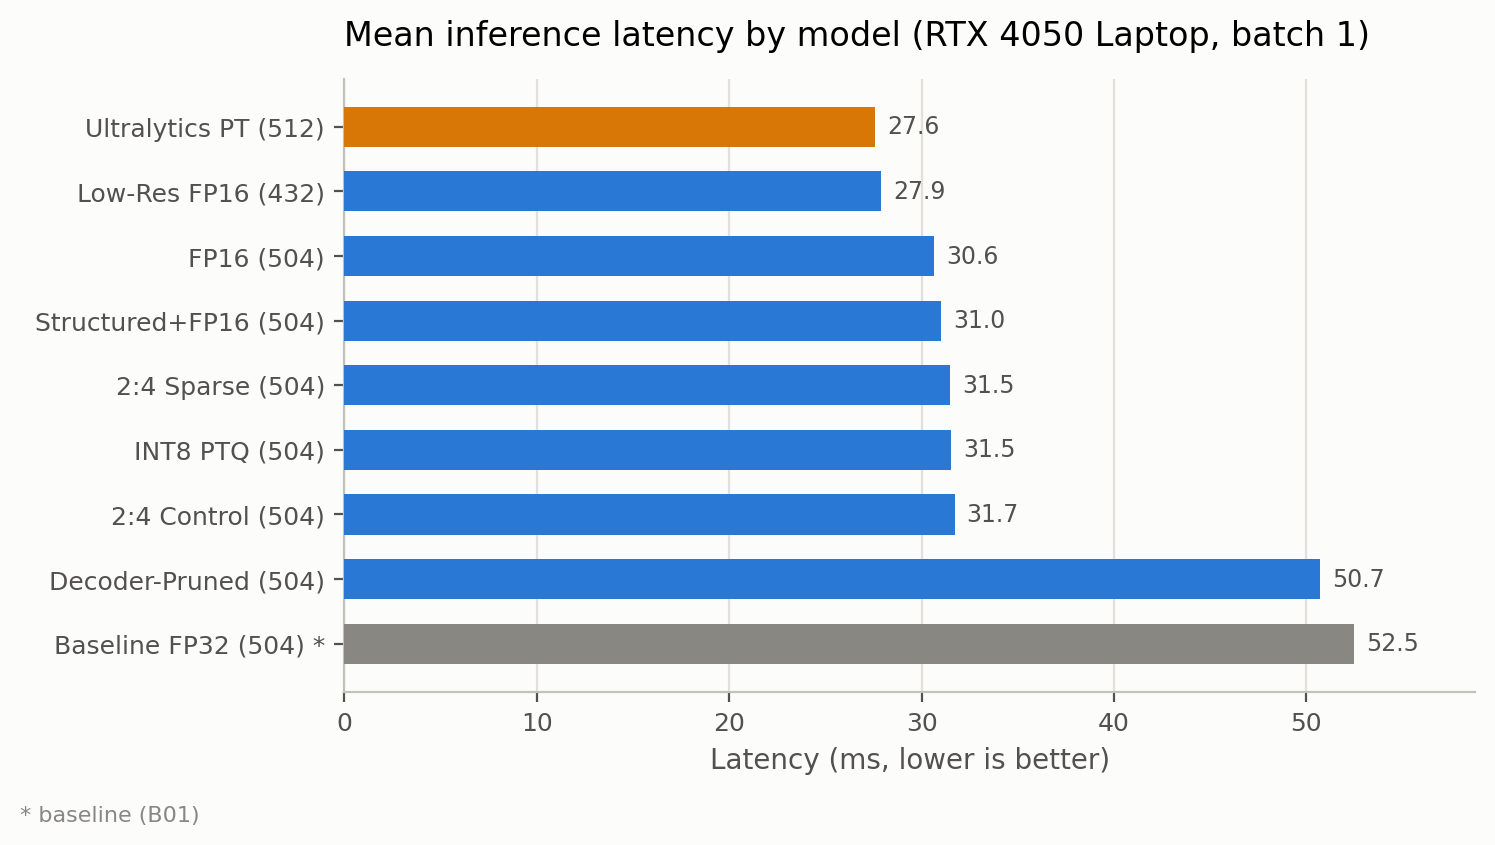
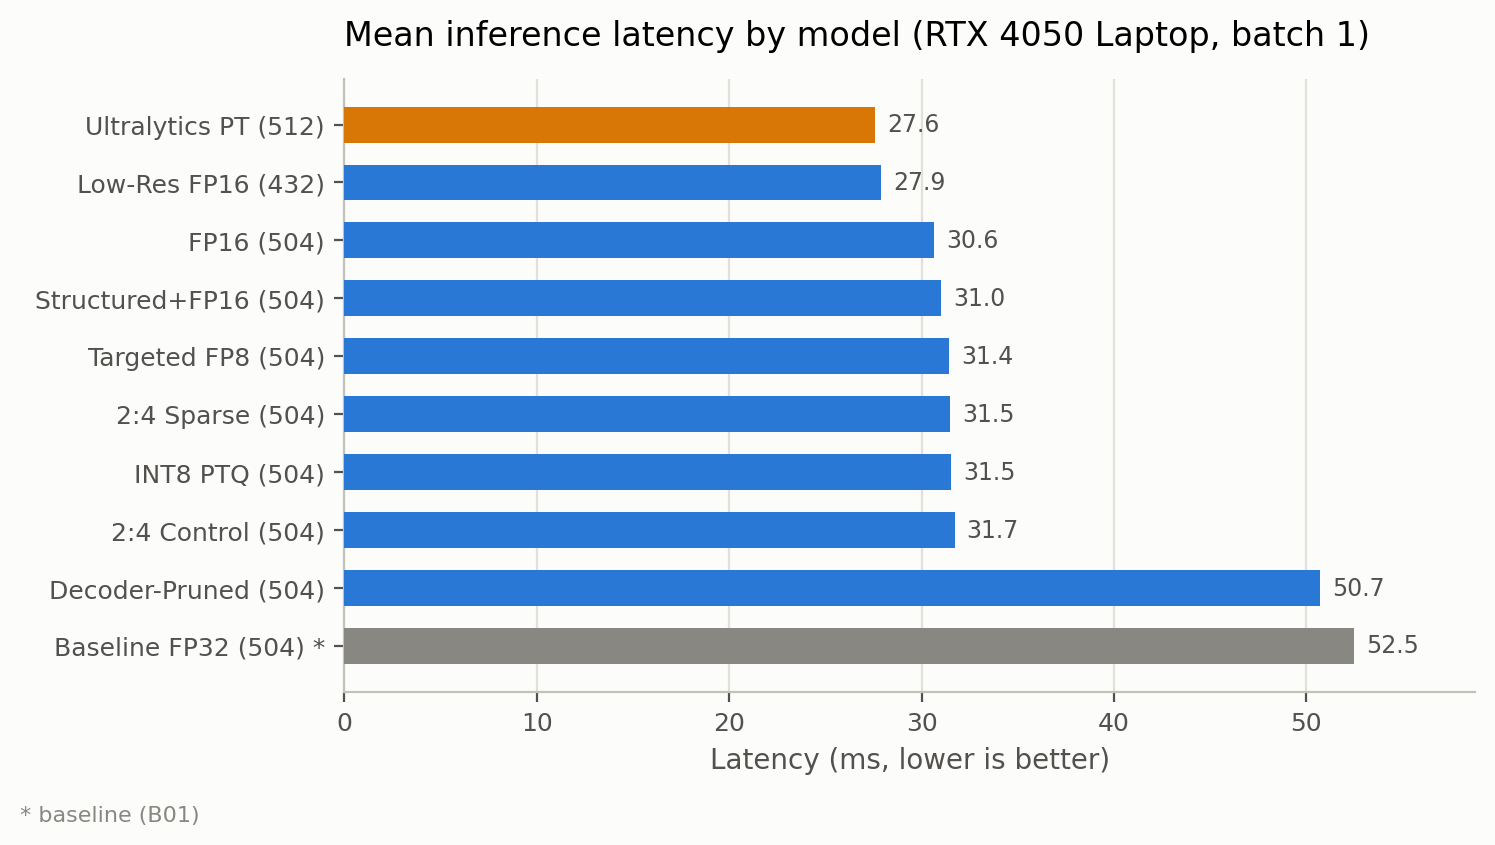
Add targeted FP8 evaluation results

diff --git a/scripts/evaluation/benchmark.py b/scripts/evaluation/benchmark.py
@@ -402,20 +402,28 @@ def base_row(model_path: Path, model_size_mb: float, baseline_size_mb: float, co
 def write_results_csv(output_path: Path, rows: Sequence[dict[str, Any]]) -> None:
     output_path.parent.mkdir(parents=True, exist_ok=True)
     write_header = not output_path.exists() or output_path.stat().st_size == 0
+    output_fields = CSV_FIELDS
     if not write_header:
         with output_path.open("r", newline="", encoding="utf-8") as handle:
             existing_header = next(csv.reader(handle), [])
-        if existing_header != CSV_FIELDS:
+        if existing_header[: len(CSV_FIELDS)] != CSV_FIELDS:
             raise EvaluationError(
                 f"CSV schema differs from the current benchmark fields: {output_path}. "
                 "Choose a new --output path or archive/remove the old CSV."
             )
+        # Accuracy enrichers append fields such as Mask AP after benchmarking.
+        # Preserve those columns and leave them empty for the newly appended row;
+        # the corresponding evaluator fills them in afterward.
+        output_fields = existing_header
     with output_path.open("a", newline="", encoding="utf-8") as handle:
-        writer = csv.DictWriter(handle, fieldnames=CSV_FIELDS, extrasaction="ignore")
+        writer = csv.DictWriter(handle, fieldnames=output_fields, extrasaction="ignore")
         if write_header:
             writer.writeheader()
         for row in rows:
-            cleaned = {field: format_csv_value(row.get(field, "")) for field in CSV_FIELDS}
+            cleaned = {
+                field: format_csv_value(row.get(field, ""))
+                for field in output_fields
+            }
             writer.writerow(cleaned)
 
 

diff --git a/scripts/reporting/paper_results.py b/scripts/reporting/paper_results.py
@@ -40,6 +40,7 @@ MODELS = {
     "M02": ("2:4 Sparse", "NVIDIA 2:4 structured sparsity"),
     "S01": ("Decoder-Pruned", "Structured decoder layer pruning (FP32)"),
     "R01": ("Low-Res FP16", "Reduced input resolution + FP16"),
+    "Q07": ("Targeted FP8", "Task-sensitive mixed FP8/FP16 quantization"),
     "parking_front": ("Ultralytics PT", "Legacy Ultralytics PyTorch model"),
 }
 
@@ -512,6 +513,7 @@ def main() -> None:
             "B02": (42, -8),
             "M01": (0, -16),
             "R01": (-6, 10),
+            "Q07": (0, -17),
             "parking_front": (0, -17),
         },
         reference_ids=REFERENCE_MODELS,
@@ -525,6 +527,7 @@ def main() -> None:
             "B02": (44, -16),
             "M01": (0, -16),
             "R01": (-14, -18),
+            "Q07": (-20, 12),
             "parking_front": (30, -4),
         },
         reference_ids=REFERENCE_MODELS,
@@ -537,6 +540,7 @@ def main() -> None:
             "B03": (52, -3),
             "B02": (-44, -8),
             "M01": (0, -16),
+            "Q07": (0, -17),
             "parking_front": (0, -17),
         },
         reference_ids=REFERENCE_MODELS,
@@ -555,6 +559,7 @@ def main() -> None:
             "M01": (-46, -10),
             "M02": (10, -18),
             "R01": (-14, -16),
+            "Q07": (0, -18),
             "parking_front": (0, -17),
         },
         reference_ids=REFERENCE_MODELS,
@@ -574,6 +579,7 @@ def main() -> None:
             "M01": (-56, -14),
             "M02": (-56, 8),
             "R01": (58, -26),
+            "Q07": (-26, 12),
             "parking_front": (52, -4),
         },
         reference_ids=REFERENCE_MODELS,

diff --git a/tests/test_benchmark_csv.py b/tests/test_benchmark_csv.py
@@ -1,0 +1,30 @@
+from __future__ import annotations
+
+import csv
+import sys
+from pathlib import Path
+
+
+ROOT = Path(__file__).resolve().parents[1]
+sys.path.insert(0, str(ROOT / "scripts" / "evaluation"))
+
+from benchmark import CSV_FIELDS, write_results_csv  # noqa: E402
+
+
+def test_write_results_csv_preserves_appended_metric_columns(tmp_path: Path) -> None:
+    output = tmp_path / "metrics.csv"
+    extended_fields = [*CSV_FIELDS, "Mask AP", "Mask mIoU"]
+    with output.open("w", newline="", encoding="utf-8") as handle:
+        writer = csv.DictWriter(handle, fieldnames=extended_fields)
+        writer.writeheader()
+        writer.writerow({"Model Path": "existing.engine", "Mask AP": "0.5"})
+
+    write_results_csv(output, [{"Model Path": "new.engine", "FPS": 32.1}])
+
+    with output.open(newline="", encoding="utf-8") as handle:
+        rows = list(csv.DictReader(handle))
+    assert rows[0]["Mask AP"] == "0.5"
+    assert rows[1]["Model Path"] == "new.engine"
+    assert rows[1]["FPS"] == "32.100000"
+    assert rows[1]["Mask AP"] == ""
+    assert rows[1]["Mask mIoU"] == ""

diff --git a/docs/handoffs/evaluation-handoff.md b/docs/handoffs/evaluation-handoff.md
@@ -13,7 +13,7 @@
 - 데이터셋: `data/labeled_test/front`
 - 평가 이미지: 296장
 - 정답 객체: 423개
-- 평가 대상: RF-DETR TensorRT 8개 + Ultralytics PT 1개
+- 평가 대상: RF-DETR TensorRT 9개 + Ultralytics PT 1개
 - bbox, segmentation, 속도, 지연시간, 크기, GPU 메모리 평가 완료
 - 후방 카메라는 이번 범위에 포함되지 않음
 
@@ -22,7 +22,7 @@
 | 경로 | 역할 |
 |---|---|
 | `results/paper_metrics.csv` | 속도와 정확도를 모두 보존한 원본 결과 |
-| `results/results_final.csv` | 논문용 RF-DETR 후보 8개 정리본 |
+| `results/results_final.csv` | 논문용 RF-DETR 후보 9개 정리본 |
 | `results/coco-evaluation/*-front.json` | 모델별 segmentation 상세 결과 |
 | `scripts/evaluation/benchmark.py` | 속도·지연시간·메모리 통합 benchmark |
 | `scripts/evaluation/evaluate.py` | bbox 정확도 및 클래스 이름 매핑 평가 |
@@ -44,7 +44,7 @@
 | 속도 warm-up | 10회 |
 | timed runs | 100회 × 3 blocks |
 | 정확도 이미지 | 전체 296장 |
-| B01~S01 입력 | 504×504 |
+| B01~S01 및 Q07 입력 | 504×504 |
 | R01 입력 | 432×432 |
 | `parking_front.pt` 입력 | 512×512 |
 
@@ -79,6 +79,7 @@ COCO 정답에는 배경 범주 `0: front`가 있고 실제 객체 범주는
 | M02 | 0.8005 | 0.6171 | 0.7962 | 31.91 | 62.40 |
 | S01 | 0.8390 | 0.6460 | 0.8042 | 19.78 | 123.28 |
 | R01 | 0.8239 | 0.6237 | 0.7869 | 36.10 | 68.05 |
+| Q07 | 0.8304 | 0.6284 | 0.7958 | 32.10 | 39.80 |
 | parking_front | 0.7130 | 0.3065 | 0.6045 | 36.87 | 5.70 |
 
 결론은 다음과 같다.
@@ -87,6 +88,7 @@ COCO 정답에는 배경 범주 `0: front`가 있고 실제 객체 범주는
 - 단순하고 안정적인 경량화: B02
 - 정확도 최우선: S01
 - RF-DETR 속도 최우선: R01
+- sm89+ GPU에서 RF-DETR 크기 최우선: Q07
 - 크기 최우선 참고 모델: `parking_front.pt`
 - B03은 B02 대비 INT8 추가 이득이 작음
 - M01/M02는 크기·속도 대비 정확도 손실이 큼
